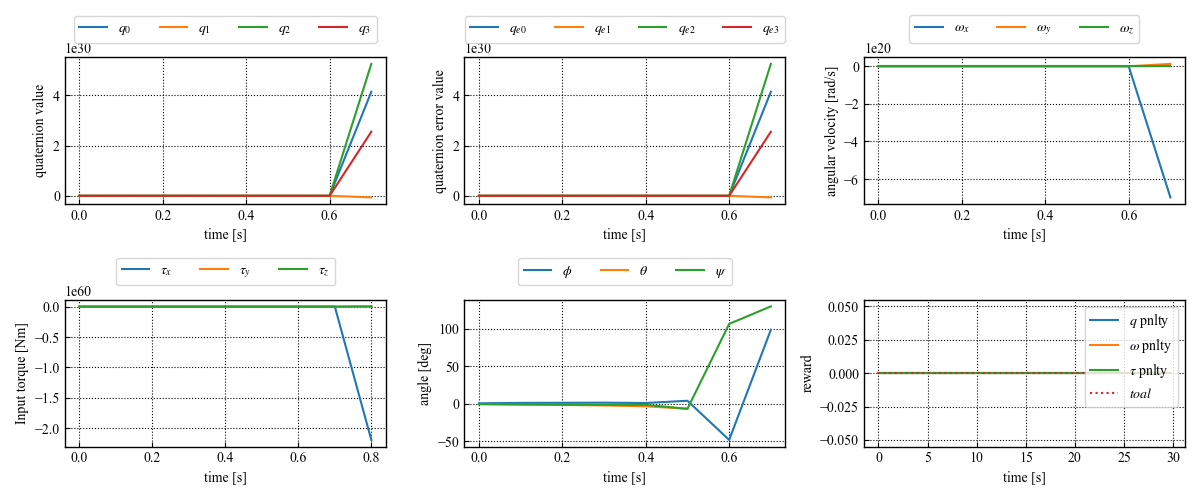
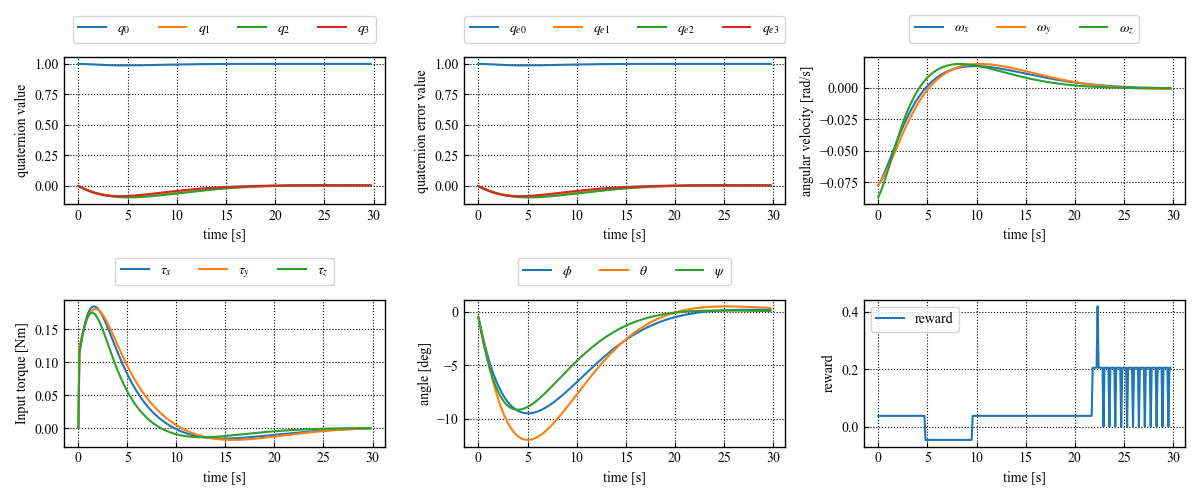
UPDATE: update reward

diff --git a/dqn_hist/environment.py b/dqn_hist/environment.py
@@ -180,8 +180,8 @@ class SatelliteContinuousEnv(gym.Env):
         # Angle, angle speed and speed at which to fail the episode
         self.maxOmega = 5
         self.angle_thre = 0.999962
-        self.soft_angle_thre = 0.99
-        self.omega_thre = 0.000001
+        self.soft_angle_thre = 0
+        self.omega_thre = 1.5e-5
         self.max_action = 1
         self.time_window = 5
         self.omega_count = 5
@@ -273,17 +273,16 @@ class SatelliteContinuousEnv(gym.Env):
             # self.r2 = self.w_weight*omega_new@omega_new
             # self.r3 = self.action_weight*action@action
             # reward = -(self.r1 + self.r2 + self.r3) 
-            pre = np.rad2deg(omega_new)
-            reward = 1/np.sqrt(2*np.pi)*np.exp(-1/2*(pre@pre))
-            # if omega@omega < self.omega_thre and qe_new[0] >= self.angle_thre:
-            #     reward = 0.1
-            # elif qe_new[0] >= self.angle_thre:
-            #     reward = 0.1*np.array([1,-1,-1,-1])@np.power(qe,2)
-            # else:
-            #     if qe_new[0] > qe[0]:
-            #         reward = 0.01
-            #     else:
-            #         reward = -0.01
+            # pre = np.rad2deg(omega_new)
+            # reward = 1/np.sqrt(2*np.pi)*np.exp(-1/2*(pre@pre))
+            reward = -0.01
+            if omega@omega < self.omega_thre:
+                reward += 0.5
+            else:
+                if omega_new@omega_new < omega@omega:
+                    reward += 0.1
+                else:
+                    reward += -0.1
         elif self.steps_beyond_done is None:
             # epsiode just ended
             self.steps_beyond_done = 0
@@ -295,7 +294,7 @@ class SatelliteContinuousEnv(gym.Env):
                 reward = -10
             elif done_4:
                 print("done_4")
-                reward = 1
+                reward = 0
             else:
                 print("done_2")
                 reward = 0
@@ -306,7 +305,7 @@ class SatelliteContinuousEnv(gym.Env):
                 logger.warn("You are calling 'step()' even though this environment has already returned done = True. You should always call 'reset()' once you receive 'done = True' -- any further steps are undefined behavior.")
             self.steps_beyond_done += 1
             reward = 0.0
-
+        reward = reward/(0.01*(175+25*self.multi))
         return self.state, reward, done, self.pre_state, {}
 
     def reset(self):

diff --git a/dqn_hist/train.py b/dqn_hist/train.py
@@ -466,7 +466,7 @@ def env_adaptive():
     q = np.empty((0,4))
     w = np.empty((0,3))
     actions = np.empty((0,3))
-    r_hist = np.empty((0,3))
+    r_hist = np.empty((0,1))
 
     #----------------------control parameters----------------------------
     alpha = 0.5
@@ -484,18 +484,11 @@ def env_adaptive():
 
     for i in range(1, max_steps):
         action = np.squeeze(action)
-
-        # if i == 20/dt:
-        #     env.inertia = env.inertia_comb
-        #     env.inertia_inv = np.linalg.inv(env.inertia)
-        #     env.pre_state[-3:] += np.deg2rad([5,-5,5])
-        #     env.state[-3:] += np.deg2rad([5,-5,5])
-        
         next_error_state, reward, done, next_state, _ = env.step(action)
         q=np.append(q,next_state[:4].reshape(1,-1),axis=0)
         qe=np.append(qe,next_error_state[:4].reshape(1,-1),axis=0)
         w=np.append(w,next_error_state[4:7].reshape(1,-1),axis=0)
-        r_hist = np.append(r_hist, np.array([env.r1,env.r2,env.r3]).reshape(1,-1),axis=0)
+        r_hist = np.append(r_hist, reward)
         total_r += reward
     #----------------control law (Adaptive controller)-----------------------
         W = next_error_state[4:7]
@@ -617,10 +610,7 @@ def env_adaptive():
     
     # plt.figure(figsize=(yoko,tate),dpi=100)
     plt.subplot(236)
-    plt.plot(np.arange(max_steps-1)*dt, r_hist[:,0],label = r"$q$ pnlty")
-    plt.plot(np.arange(max_steps-1)*dt, r_hist[:,1],label = r"$\omega$ pnlty")
-    plt.plot(np.arange(max_steps-1)*dt, r_hist[:,2],label = r"$\tau$ pnlty")
-    plt.plot(np.arange(max_steps-1)*dt, r_hist[:,0]+r_hist[:,1]+r_hist[:,2],label = r"$toal$",linestyle='dotted')
+    plt.plot(np.arange(max_steps-1)*dt, r_hist,label = r"reward")
     # plt.title('Action')
     plt.ylabel('reward')
     plt.xlabel(r'time [s]')
